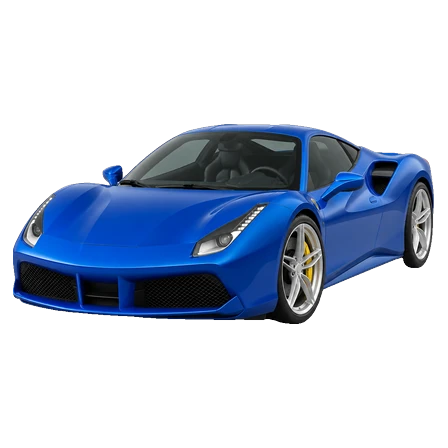
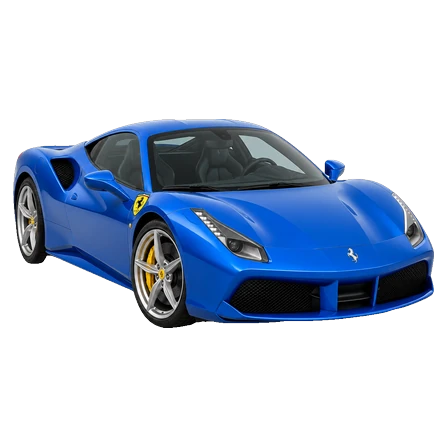
Little Garage v6.2: McLaren 720S swoosh + Ferrari 488 Scuderia horse
Badge fix for 2 of 10 flagged x10 cars (SW garage-v6-4). Other 8 keep
clean no-logo (Lambo/Aston/Porsche text still garbled after retries).

diff --git a/sw.js b/sw.js
@@ -1,5 +1,5 @@
 /* Offline cache (same pattern as the picture book's sw.js): bump VERSION whenever any file changes. */
-var VERSION = "garage-v6-3";
+var VERSION = "garage-v6-4";
 var FILES = ["./", "index.html", "css/k1.css", "js/store.js", "js/speech.js", "js/art.js", "js/activities.js", "js/maths.js", "js/english.js", "js/chinese.js", "js/app.js",
   "audio/manifest.js", "audio/silence.mp3", "icon.svg", "icon.png", "manifest.webmanifest",
   "img/stickers/everyday/ambulance.webp", "img/stickers/everyday/bmw-3series.webp", "img/stickers/everyday/bmw-i3.webp", "img/stickers/everyday/chevy-belair.webp", "img/stickers/everyday/double-decker.webp", "img/stickers/everyday/dump-truck.webp", "img/stickers/everyday/fiat-500.webp", "img/stickers/everyday/fire-engine.webp", "img/stickers/everyday/food-truck.webp", "img/stickers/everyday/ford-mustang.webp", "img/stickers/everyday/honda-civic.webp", "img/stickers/everyday/honda-jazz.webp", "img/stickers/everyday/ice-cream-van.webp", "img/stickers/everyday/jeep-wrangler.webp", "img/stickers/everyday/kia-soul.webp", "img/stickers/everyday/land-rover.webp", "img/stickers/everyday/mazda-mx5.webp", "img/stickers/everyday/mini-cooper.webp", "img/stickers/everyday/nissan-leaf.webp", "img/stickers/everyday/police-car.webp", "img/stickers/everyday/porsche-cayenne.webp", "img/stickers/everyday/sbs-bus.webp", "img/stickers/everyday/school-bus.webp", "img/stickers/everyday/subaru-forester.webp", "img/stickers/everyday/tesla-model3.webp", "img/stickers/everyday/tow-truck.webp", "img/stickers/everyday/toyota-alphard.webp", "img/stickers/everyday/toyota-camry.webp", "img/stickers/everyday/toyota-prius-taxi.webp", "img/stickers/everyday/vw-beetle.webp", "img/stickers/super/amg-gt.webp", "img/stickers/super/aston-martin-db11.webp", "img/stickers/super/aston-martin-vantage.webp", "img/stickers/super/audi-r8.webp", "img/stickers/super/bmw-m8.webp", "img/stickers/super/bugatti-chiron.webp", "img/stickers/super/bugatti-veyron.webp", "img/stickers/super/corvette-c8.webp", "img/stickers/super/ferrari-488.webp", "img/stickers/super/ferrari-f8.webp", "img/stickers/super/ferrari-sf90.webp", "img/stickers/super/ford-gt.webp", "img/stickers/super/jaguar-ftype.webp", "img/stickers/super/koenigsegg-jesko.webp", "img/stickers/super/koenigsegg-regera.webp", "img/stickers/super/lamborghini-aventador.webp", "img/stickers/super/lamborghini-huracan.webp", "img/stickers/super/lamborghini-revuelto.webp", "img/stickers/super/lexus-lfa.webp", "img/stickers/super/lotus-emira.webp", "img/stickers/super/lotus-evora.webp", "img/stickers/super/mclaren-720s.webp", "img/stickers/super/mclaren-p1.webp", "img/stickers/super/mclaren-senna.webp", "img/stickers/super/nissan-gtr.webp", "img/stickers/super/pagani-huayra.webp", "img/stickers/super/pagani-zonda.webp", "img/stickers/super/porsche-911.webp", "img/stickers/super/porsche-cayman-gt4.webp", "img/stickers/super/porsche-taycan.webp", "img/stickers/tier10/amg-gt.webp", "img/stickers/tier10/aston-martin-db11.webp", "img/stickers/tier10/aston-martin-vantage.webp", "img/stickers/tier10/audi-r8.webp", "img/stickers/tier10/bmw-m8.webp", "img/stickers/tier10/bugatti-chiron.webp", "img/stickers/tier10/bugatti-veyron.webp", "img/stickers/tier10/corvette-c8.webp", "img/stickers/tier10/ferrari-488.webp", "img/stickers/tier10/ferrari-f8.webp", "img/stickers/tier10/ferrari-sf90.webp", "img/stickers/tier10/ford-gt.webp", "img/stickers/tier10/jaguar-ftype.webp", "img/stickers/tier10/koenigsegg-jesko.webp", "img/stickers/tier10/koenigsegg-regera.webp", "img/stickers/tier10/lamborghini-aventador.webp", "img/stickers/tier10/lamborghini-huracan.webp", "img/stickers/tier10/lamborghini-revuelto.webp", "img/stickers/tier10/lexus-lfa.webp", "img/stickers/tier10/lotus-emira.webp", "img/stickers/tier10/lotus-evora.webp", "img/stickers/tier10/mclaren-720s.webp", "img/stickers/tier10/mclaren-p1.webp", "img/stickers/tier10/mclaren-senna.webp", "img/stickers/tier10/nissan-gtr.webp", "img/stickers/tier10/pagani-huayra.webp", "img/stickers/tier10/pagani-zonda.webp", "img/stickers/tier10/porsche-911.webp", "img/stickers/tier10/porsche-cayman-gt4.webp", "img/stickers/tier10/porsche-taycan.webp"];
